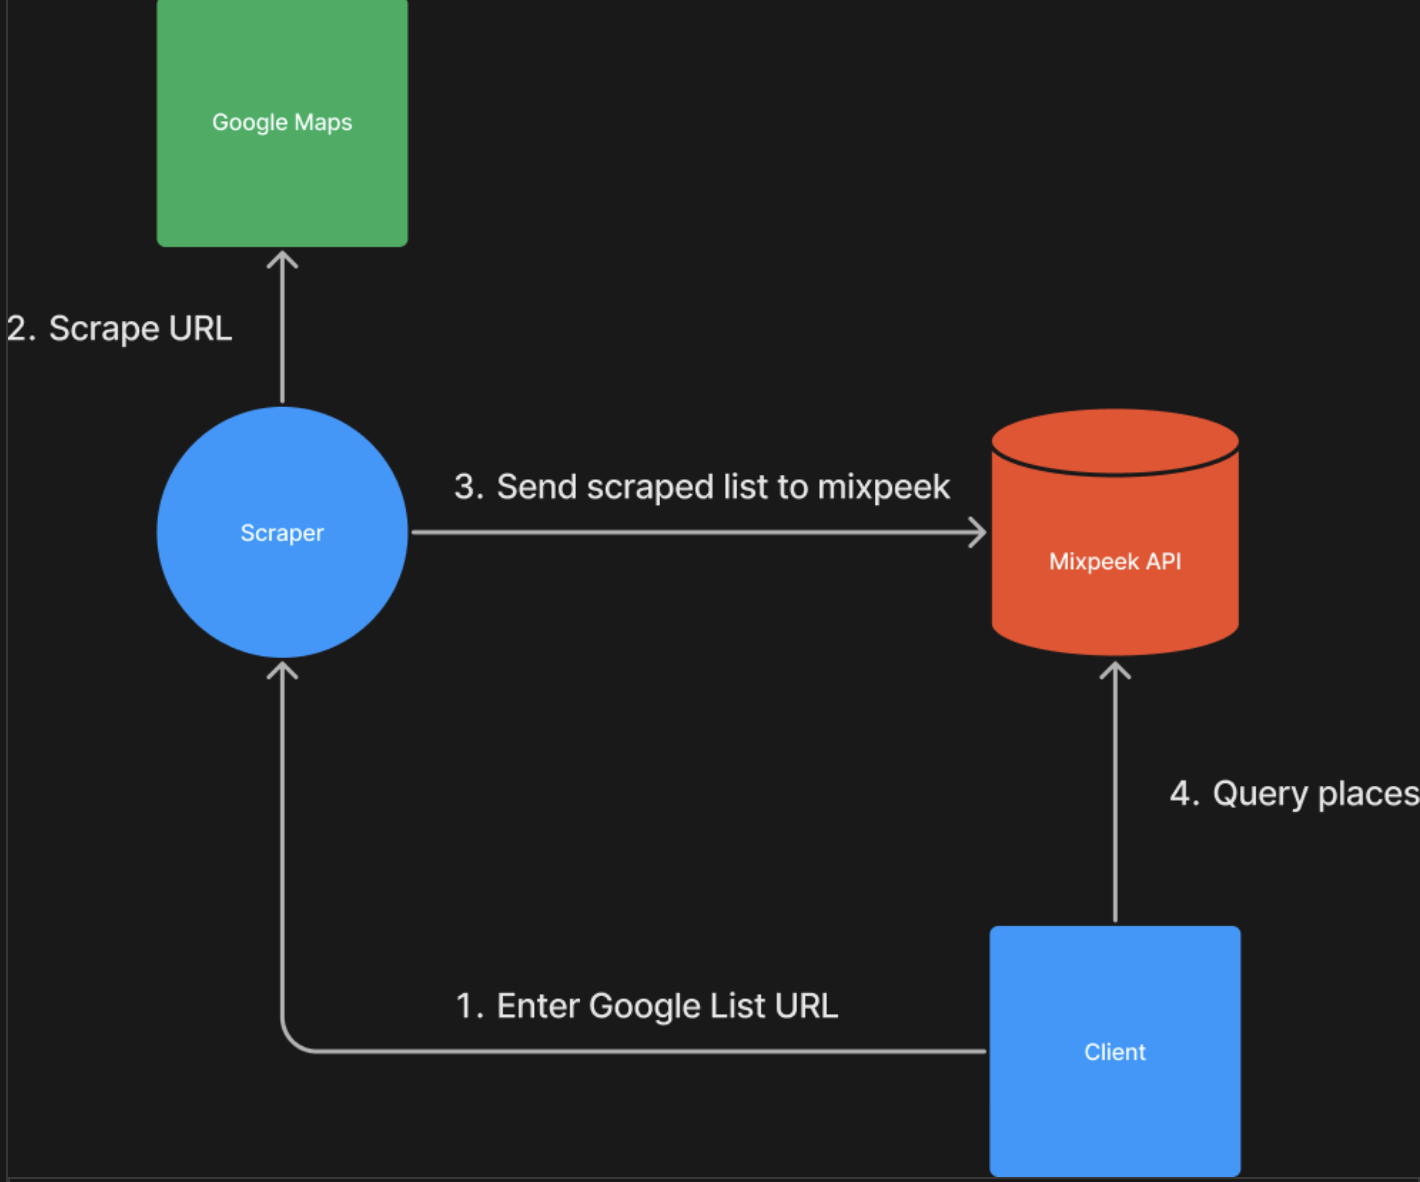
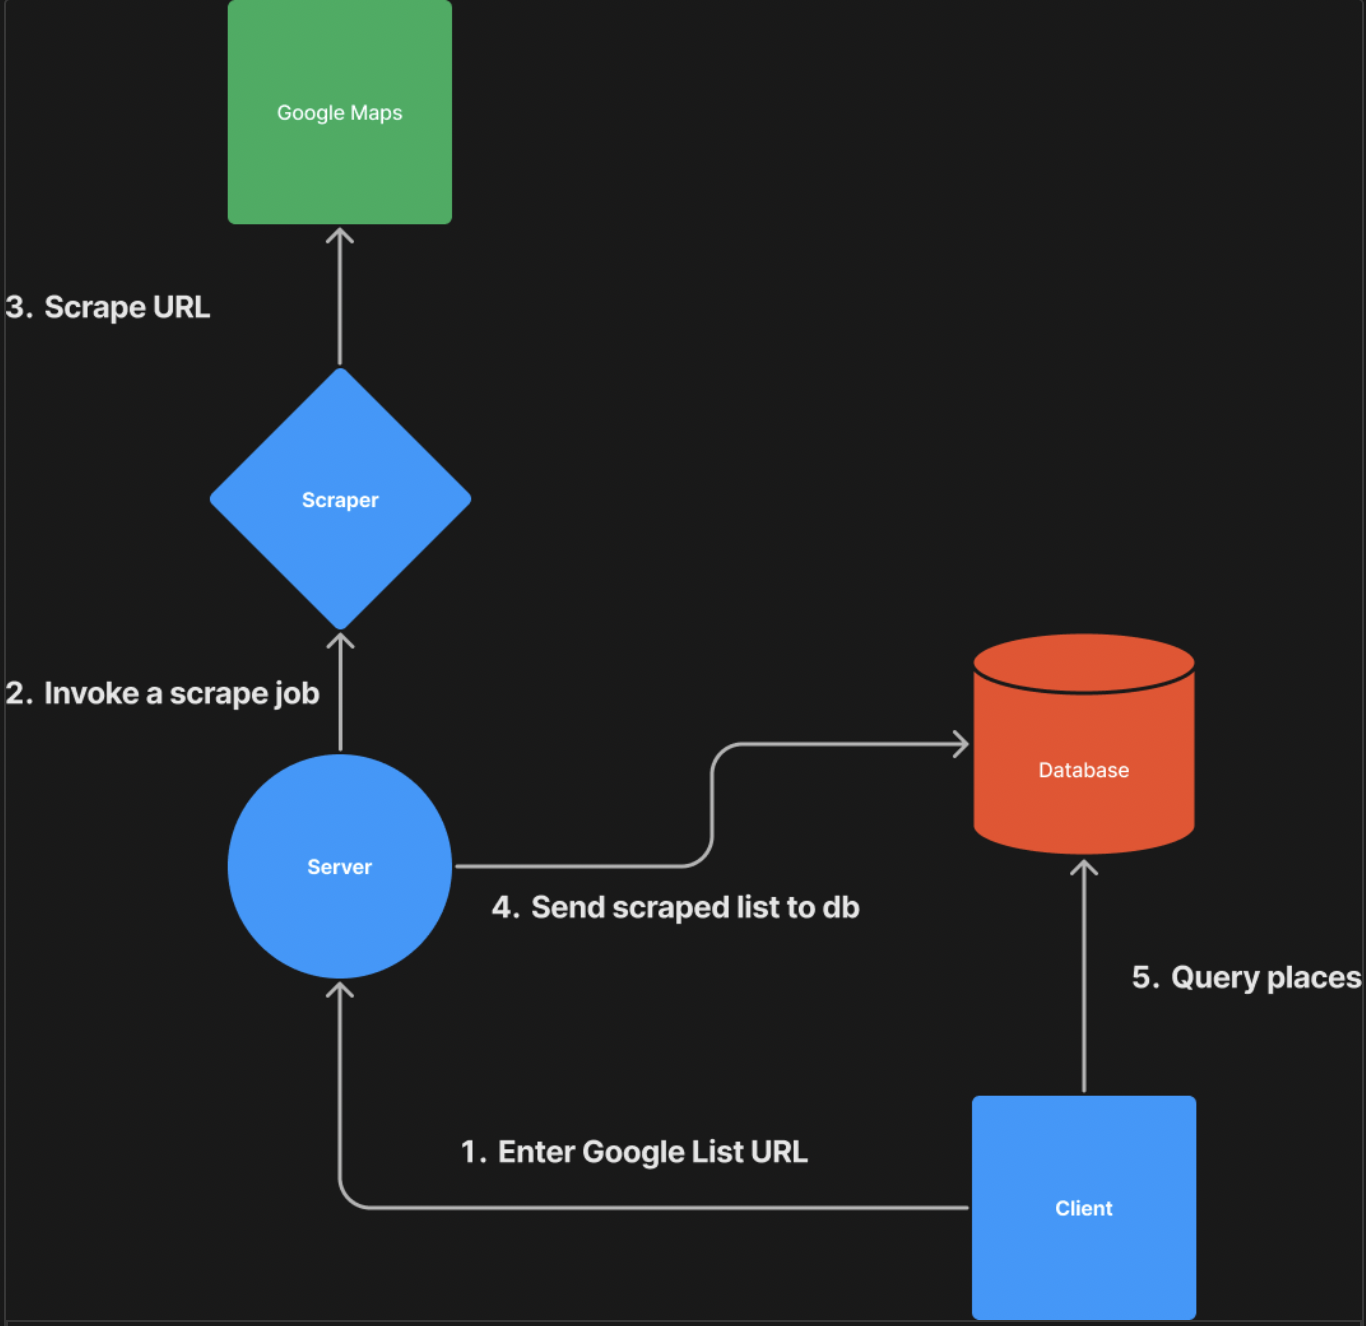
adding client and new arch diagram

Changed region(s): [[0.0, 0.0, 1.0, 1.0], [0.7687, 0.8832, 0.8302, 0.9137], [0.9839, 0.9746, 1.0, 1.0]]

diff --git a/clients/supabase.js b/clients/supabase.js
@@ -1,0 +1,9 @@
+const { createClient } = require('@supabase/supabase-js');
+const { consts } = require('../consts');
+
+const supabase = createClient(
+  consts.SUPABASE_PROJECT_URL,
+  consts.SUPABASE_API_KEY
+);
+
+module.exports = supabase;
